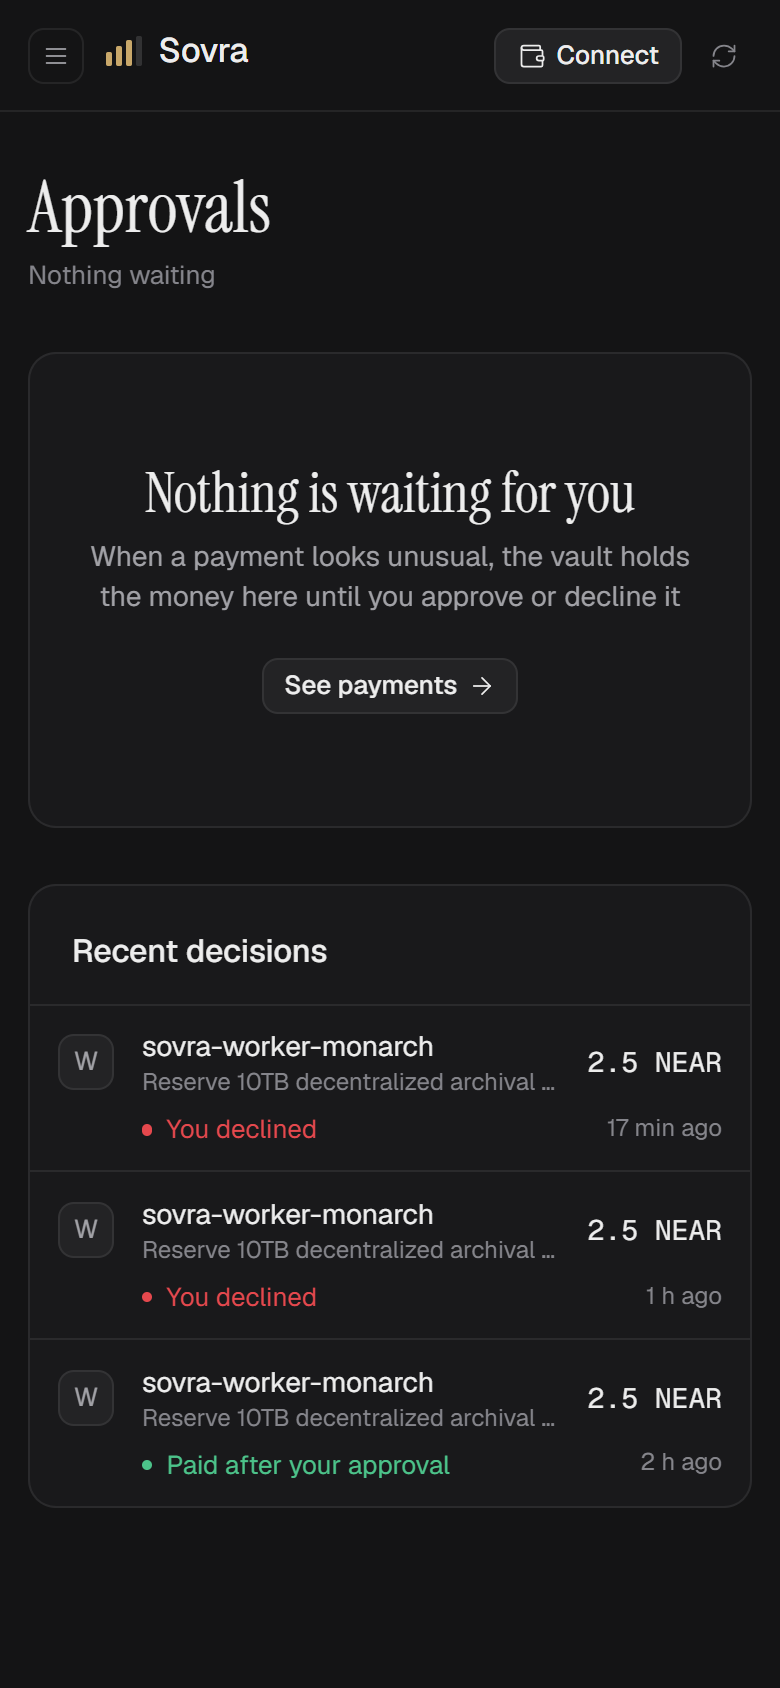
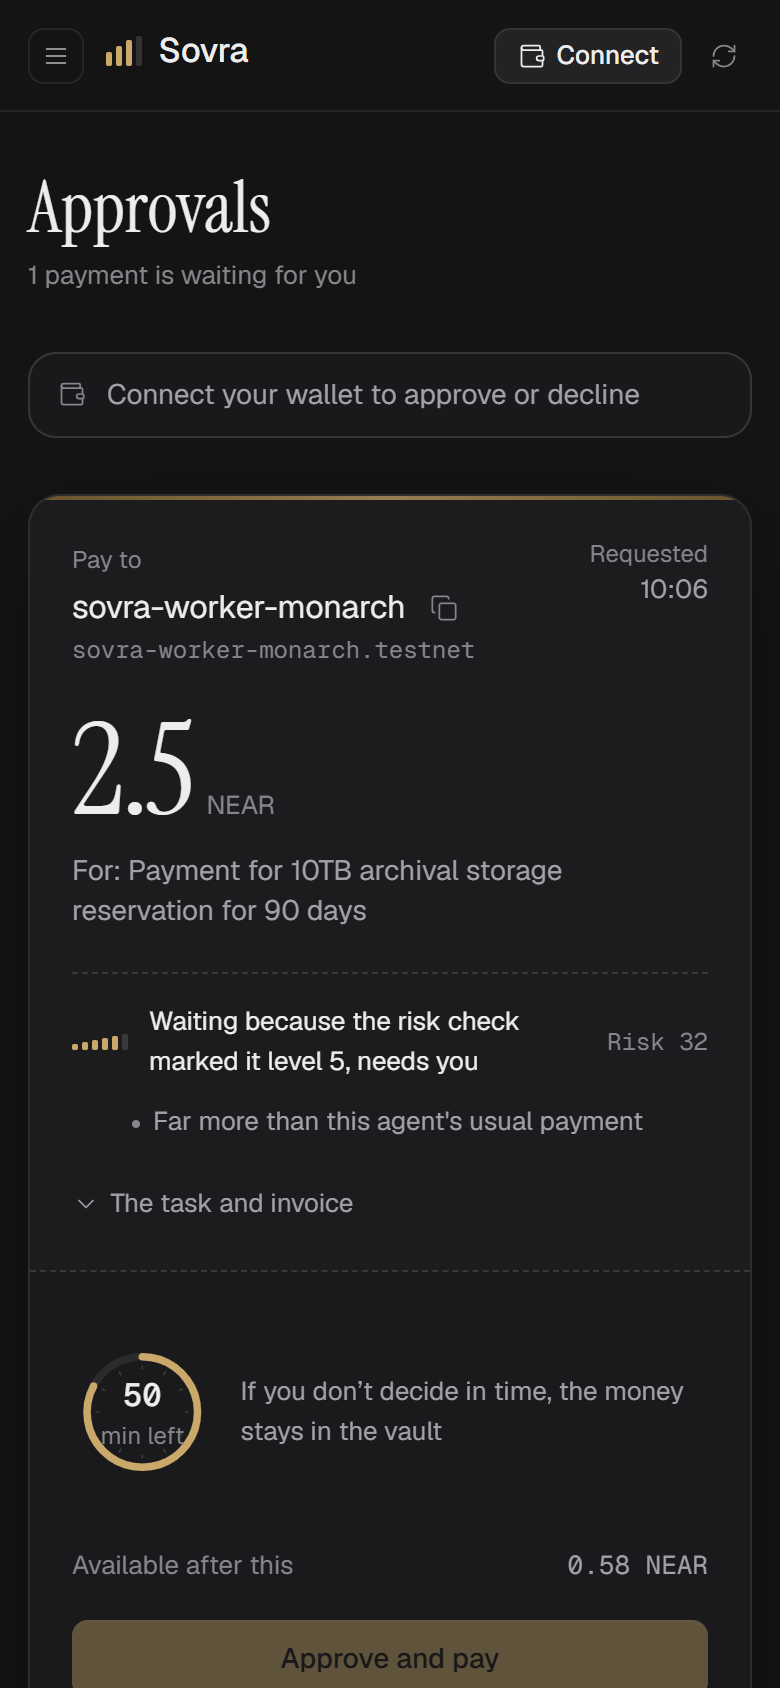
docs: keep the Approvals screenshot that shows a held payment

diff --git a/docs/screenshots/README.md b/docs/screenshots/README.md
@@ -11,7 +11,7 @@ The UI is being rebuilt screen by screen from [design.md](../../design.md). Scre
 | `02-agent.png` | Agent | Legacy |
 | `03-payments.png` | Payments: filters with counts, search, plain-language outcomes | Rebuilt |
 | `04-evidence-drawer.png` | Payment drawer: an owner-approved 2.5 NEAR payment, why it waited, risk check, the agent's words, proof | Rebuilt |
-| `05-approvals.png` | Approvals: empty state and recent decisions (see git history for the slip with a held payment) | Rebuilt |
+| `05-approvals.png` | Approvals: a 2.5 NEAR payment held at level 5 as a slip with the countdown ring, plus recent decisions | Rebuilt |
 | `06-limits.png` | Limits (policy v2) | Legacy |
 | `07-activity.png` | Activity log | Legacy |
 | `08-mobile-home.png` | Home at 390 px | Rebuilt |
